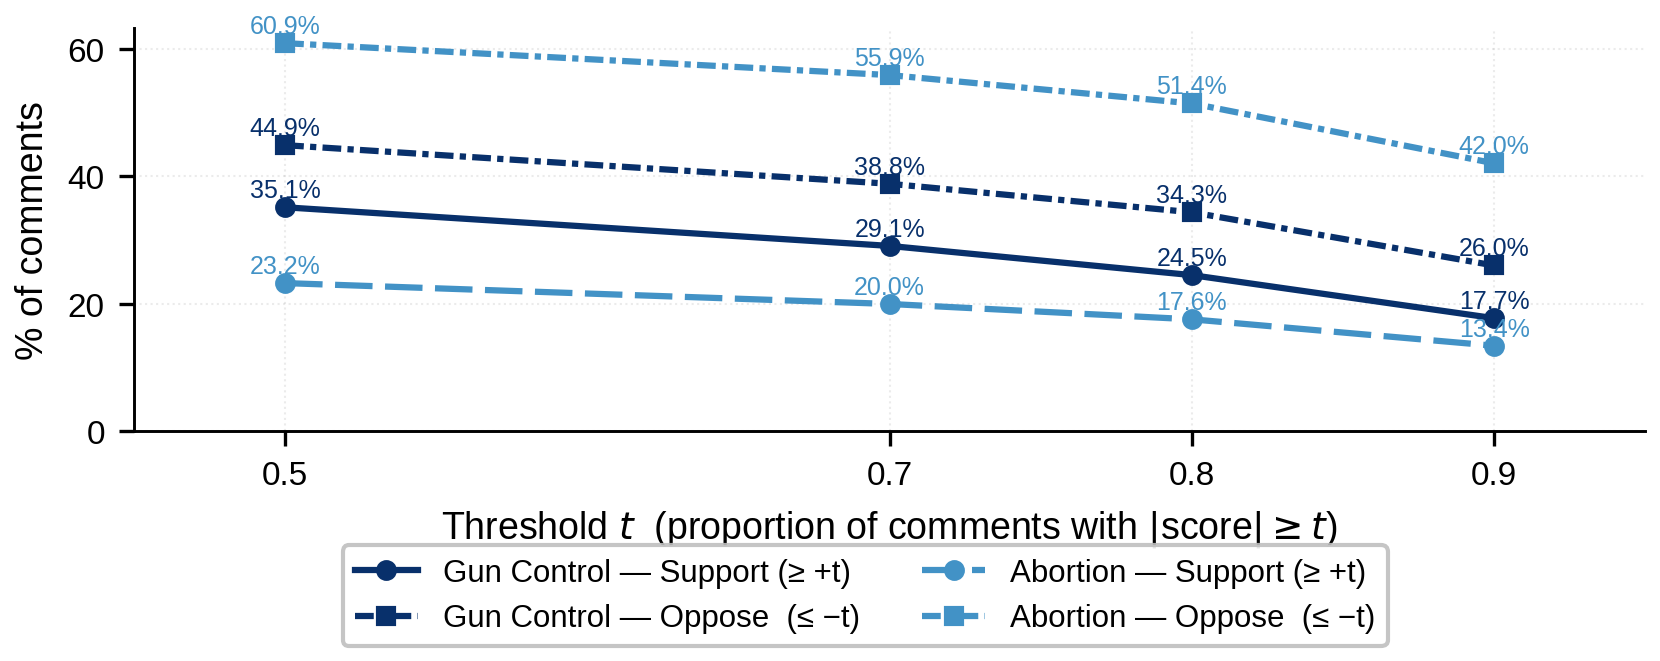
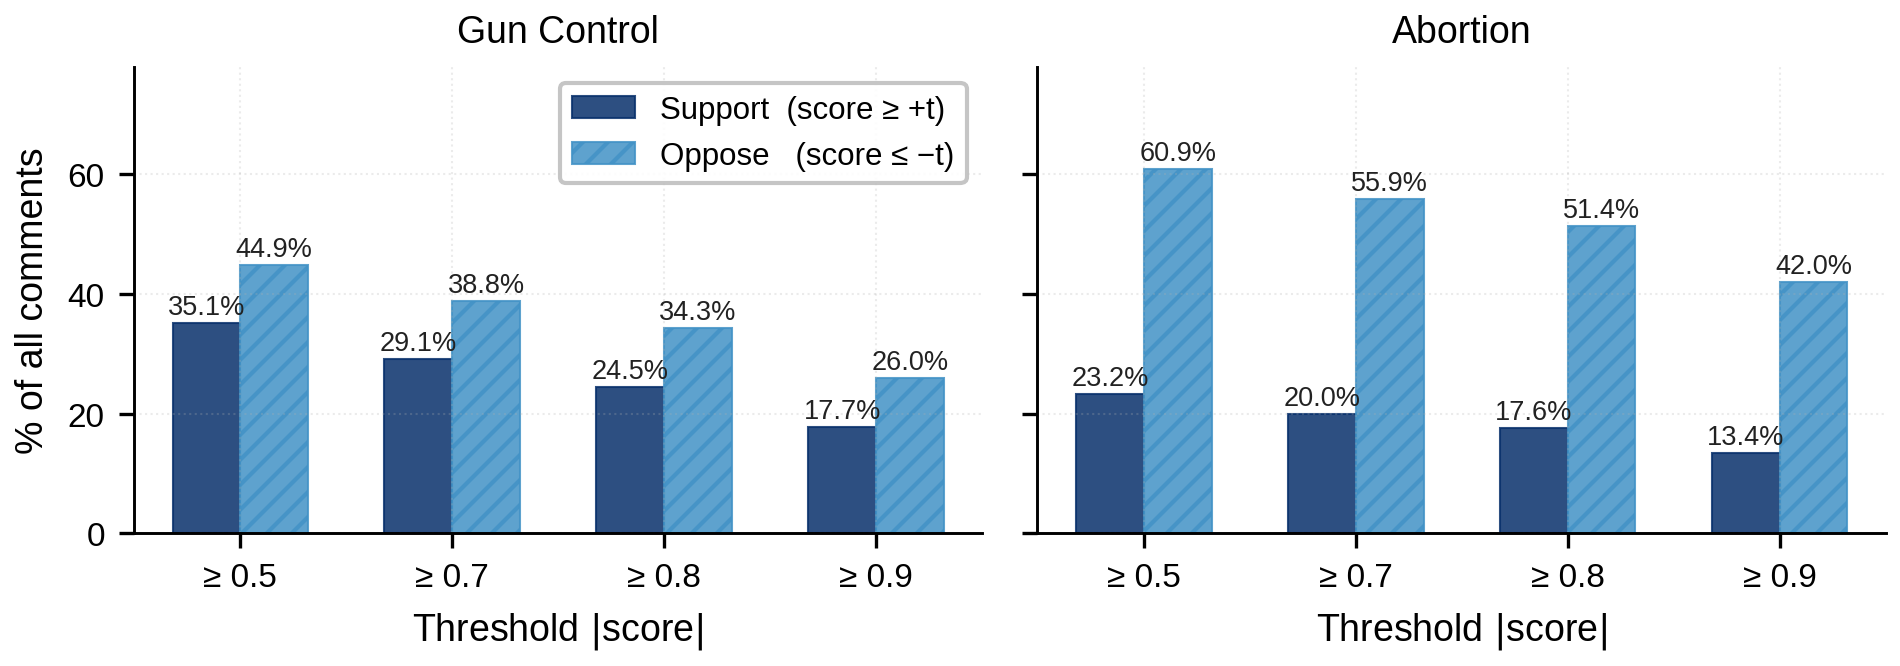
Replace chart3 line chart with two-panel grouped bar
Support vs Oppose bars per threshold, Gun Control | Abortion side-by-side.
Single-hue blues: solid fill = Support, hatch = Oppose. Easier to compare
asymmetry within topic and across topics at a glance.

diff --git a/visualize_stance.py b/visualize_stance.py
@@ -204,53 +204,50 @@ plt.close(fig)
 print(f"  Saved: {p}")
 
 # ═════════════════════════════════════════════════════════════════════════════
-# Chart 3 — Extreme-stance line chart
+# Chart 3 — Extreme-stance grouped bar (two panels: Gun | Abortion)
 # ═════════════════════════════════════════════════════════════════════════════
 print("Chart 3: extreme-stance proportions...")
 
-records = {}
-for topic, arr in [("Gun Control", gun), ("Abortion", abort)]:
-    pct_s = [(arr >=  t).mean() * 100 for t in THRESHOLDS]
-    pct_o = [(arr <= -t).mean() * 100 for t in THRESHOLDS]
-    records[topic] = (pct_s, pct_o)
+x    = np.arange(len(THRESHOLDS))
+w    = 0.32   # bar width
+C_SUP = C_GUN          # dark blue  — Support
+C_OPP = C_ABRT         # mid blue   — Oppose
 
-fig, ax = plt.subplots(figsize=(6.5, 2.4))
+fig, axes = plt.subplots(1, 2, figsize=(6.5, 2.4), sharey=True)
 
-x_thr = np.array(THRESHOLDS)
+for ax, (topic, arr), color in zip(
+        axes,
+        [("Gun Control", gun), ("Abortion", abort)],
+        [C_GUN, C_GUN]):
 
-# Gun Control
-pct_s, pct_o = records["Gun Control"]
-ax.plot(x_thr, pct_s, color=C_GUN, ls=LS_GUN,       lw=1.5, marker="o", ms=4,
-        label="Gun Control — Support (≥ +t)")
-ax.plot(x_thr, pct_o, color=C_GUN, ls=(0, (3,1,1,1)), lw=1.5, marker="s", ms=4,
-        label="Gun Control — Oppose  (≤ −t)")
+    pct_s = np.array([(arr >=  t).mean() * 100 for t in THRESHOLDS])
+    pct_o = np.array([(arr <= -t).mean() * 100 for t in THRESHOLDS])
 
-# Abortion
-pct_s, pct_o = records["Abortion"]
-ax.plot(x_thr, pct_s, color=C_ABRT, ls=LS_ABRT,       lw=1.5, marker="o", ms=4,
-        label="Abortion — Support (≥ +t)")
-ax.plot(x_thr, pct_o, color=C_ABRT, ls=(0, (3,1,1,1)), lw=1.5, marker="s", ms=4,
-        label="Abortion — Oppose  (≤ −t)")
+    b1 = ax.bar(x - w/2, pct_s, w,
+                label="Support  (score ≥ +t)",
+                color=C_GUN, hatch="",     edgecolor=C_GUN,  lw=0.5, alpha=0.85)
+    b2 = ax.bar(x + w/2, pct_o, w,
+                label="Oppose   (score ≤ −t)",
+                color=C_ABRT, hatch="////", edgecolor=C_ABRT, lw=0.5, alpha=0.85)
 
-# Value labels at each point
-for topic, arr, c in [("Gun Control", gun, C_GUN), ("Abortion", abort, C_ABRT)]:
-    for t, ps, po in zip(THRESHOLDS,
-                         [(arr >= t).mean()*100 for t in THRESHOLDS],
-                         [(arr <=-t).mean()*100 for t in THRESHOLDS]):
-        ax.text(t, ps + 0.8, f"{ps:.1f}%", ha="center", va="bottom",
-                fontsize=6, color=c)
-        ax.text(t, po + 0.8, f"{po:.1f}%", ha="center", va="bottom",
-                fontsize=6, color=c)
+    # value labels inside / above bars
+    for bar, val in [(b1, pct_s), (b2, pct_o)]:
+        for rect, v in zip(bar, val):
+            ax.text(rect.get_x() + rect.get_width()/2,
+                    rect.get_height() + 0.5,
+                    f"{v:.1f}%", ha="center", va="bottom",
+                    fontsize=6.5, color="#222222")
 
-ax.set_xlabel(r"Threshold $t$  (proportion of comments with $|$score$| \geq t$)")
-ax.set_ylabel("% of comments")
-ax.set_xticks(THRESHOLDS)
-ax.set_xlim(0.45, 0.95)
-ax.set_ylim(0)
+    ax.set_xticks(x)
+    ax.set_xticklabels([f"≥ {t}" for t in THRESHOLDS], fontsize=8)
+    ax.set_xlabel("Threshold $|$score$|$")
+    ax.set_title(topic, fontsize=9)
+    ax.set_ylim(0, max(pct_s.max(), pct_o.max()) * 1.28)
 
-fig.legend(ncol=2, loc="lower center",
-           bbox_to_anchor=(0.5, 0.0), fontsize=7.5)
-fig.subplots_adjust(bottom=0.32)
+axes[0].set_ylabel("% of all comments")
+axes[0].legend(fontsize=7.5, loc="upper right")
+
+fig.tight_layout()
 p = os.path.join(CHART_DIR, "chart3_extremes.png")
 fig.savefig(p)
 plt.close(fig)
